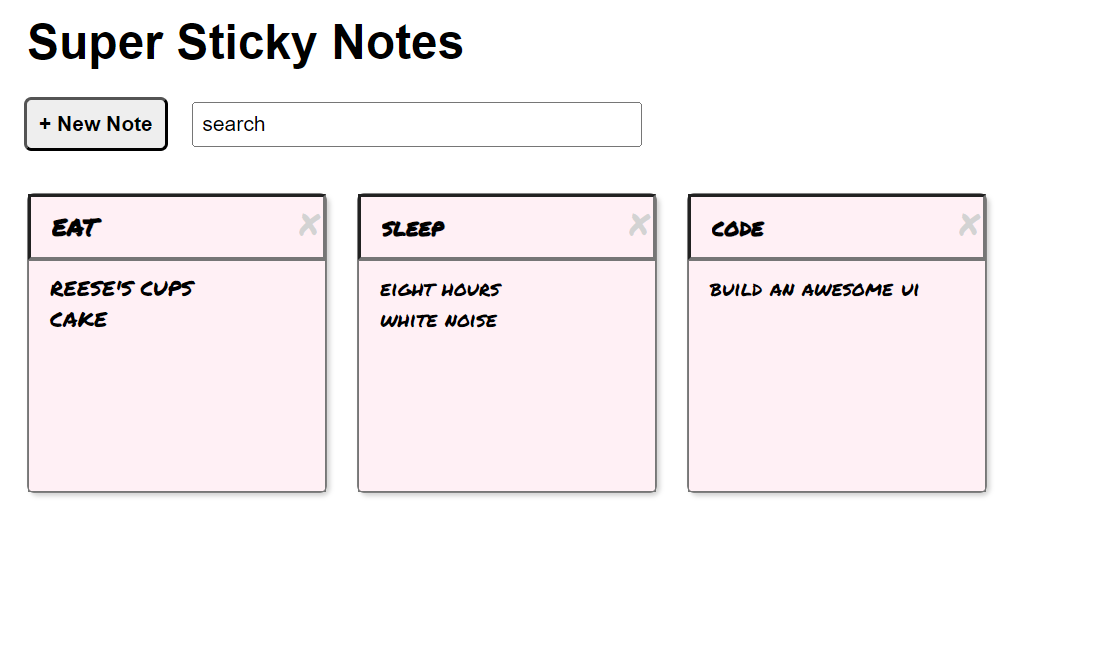
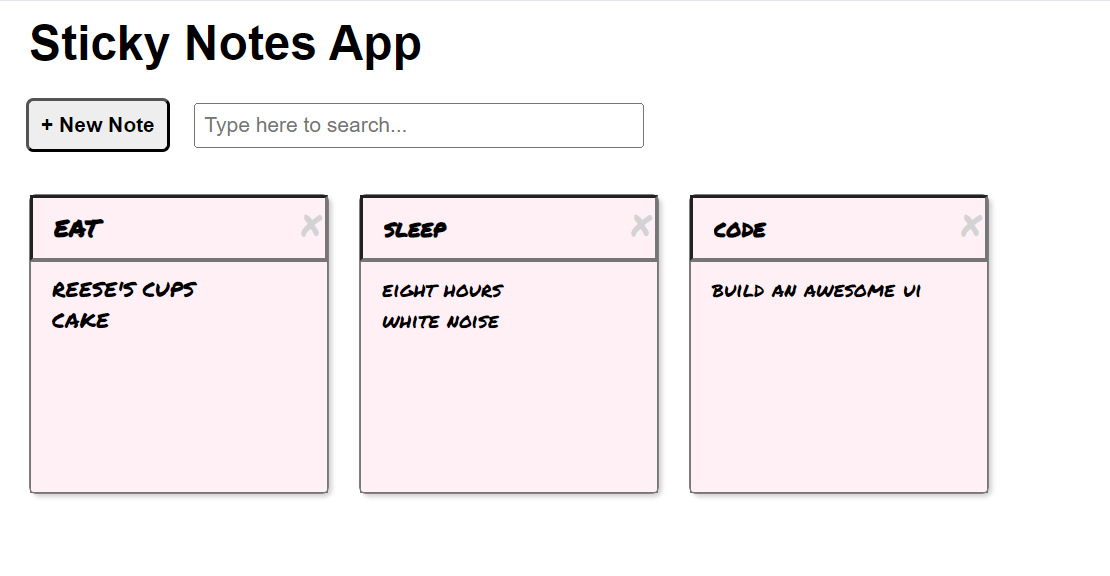
Updated Sticky Notes app image and title

Changed region(s): [[0.0, 0.0312, 0.9222, 0.75], [0.0307, 0.75, 0.8915, 0.875]]

diff --git a/docs/index.html b/docs/index.html
@@ -58,7 +58,7 @@
                 <a href="https://qdq6zm.csb.app/" target="_blank"><img src="img/sticky-note.PNG"
                     alt="Sticky Note Project"></a>
               </figure>
-              <h4>Super Sticky Notes</h4>
+              <h4>Sticky Notes App</h4>
               <p class="project-description">Greenfield project creating a Sticky Notes web app. Uses
                 multiple
                 components to build the classic sticky note UI with the ability to add, edit, delete and search
